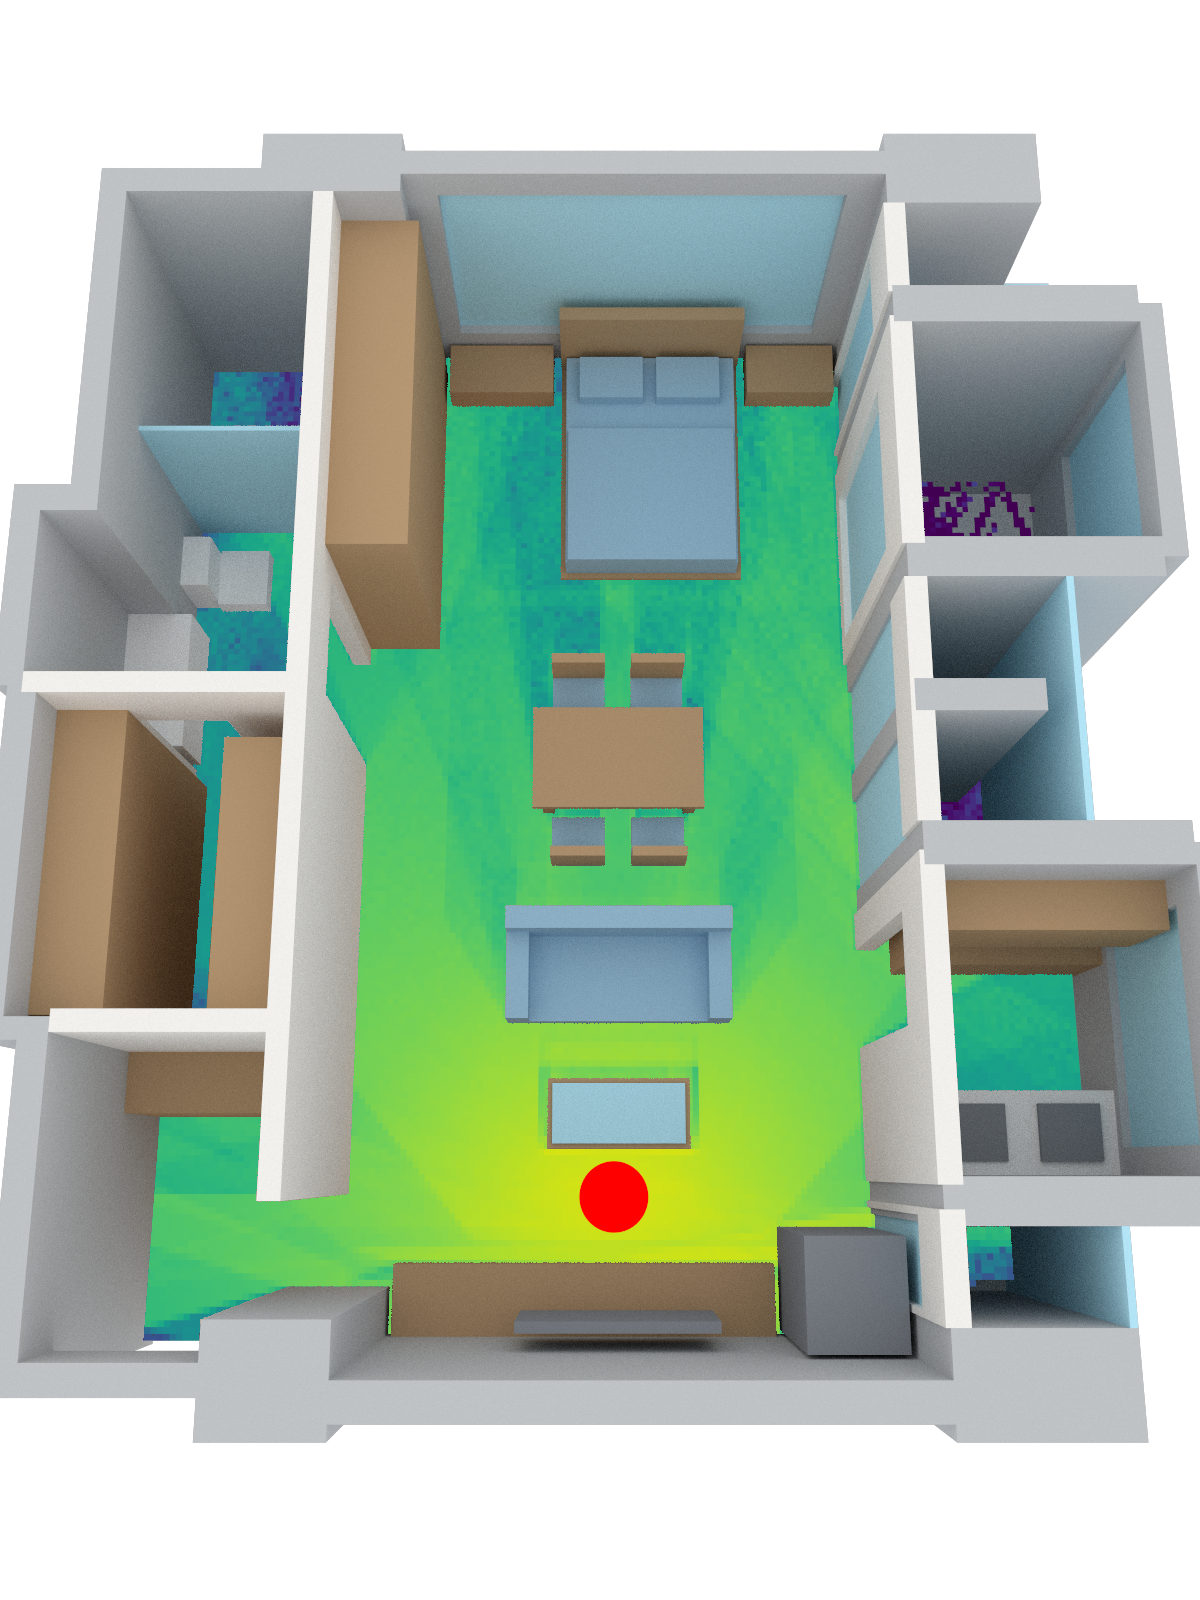
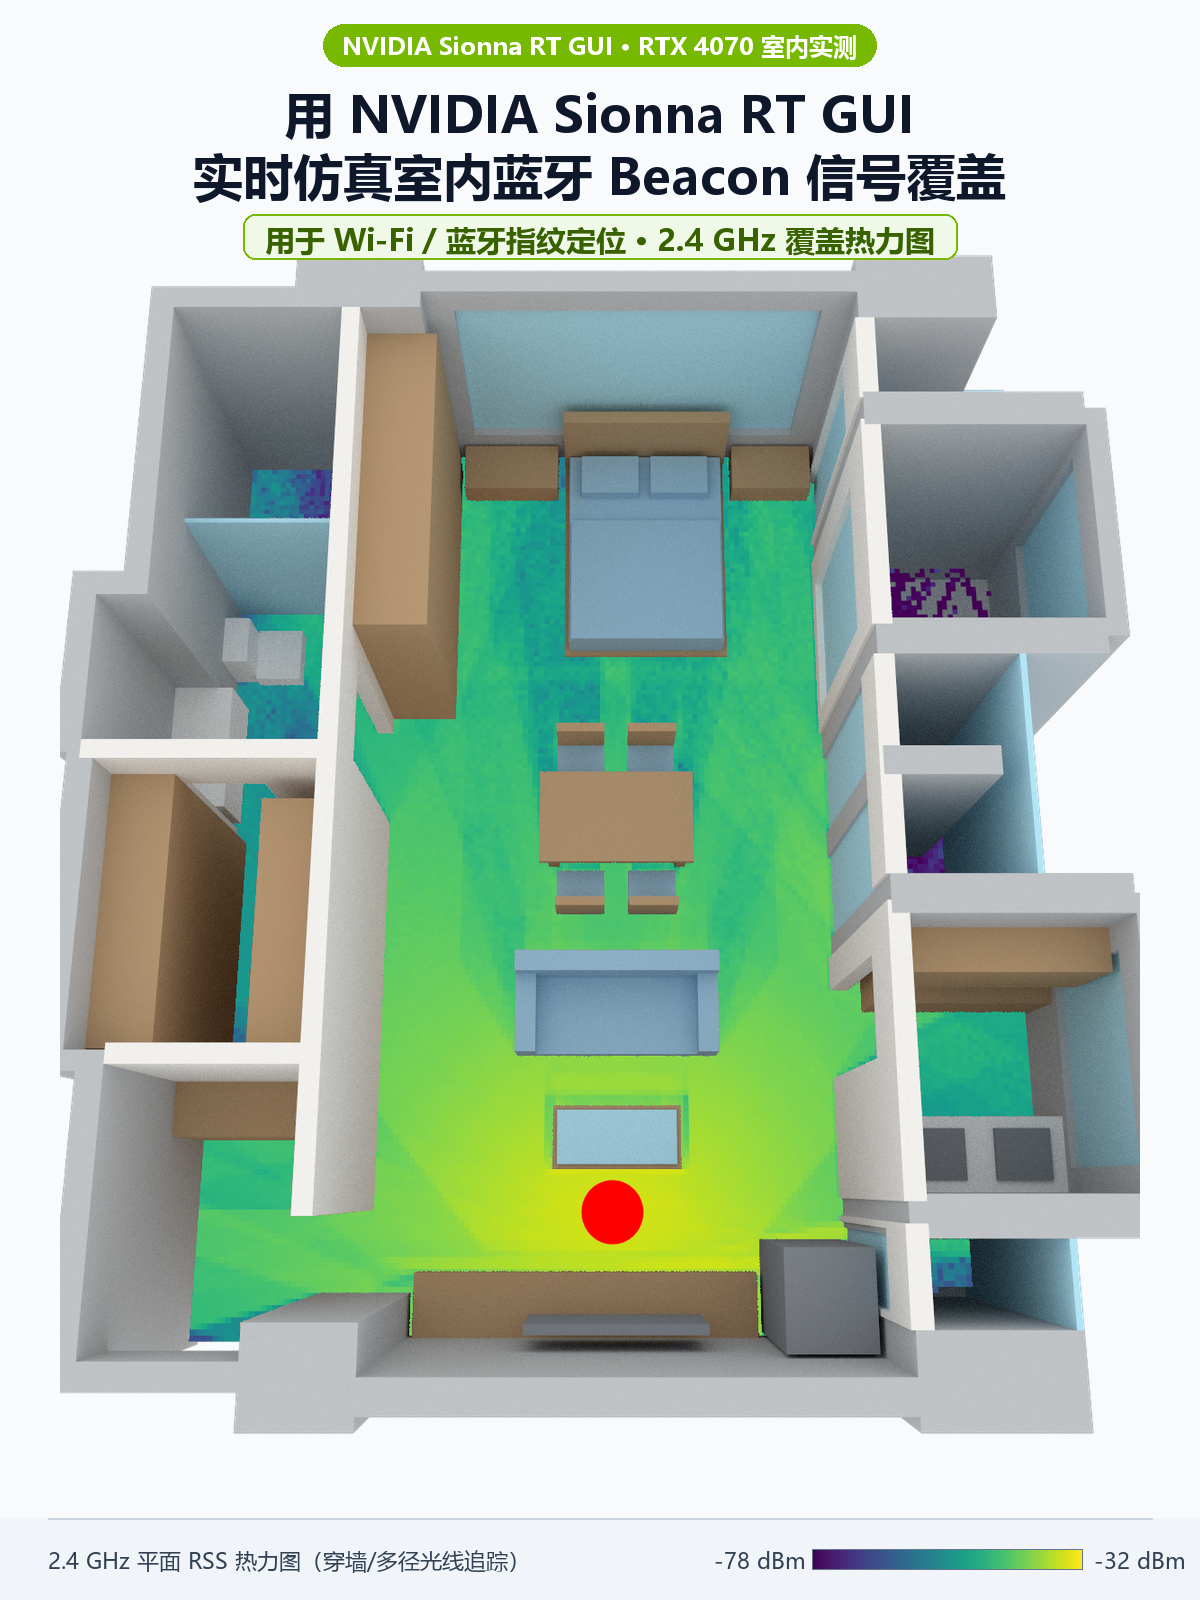
feat: add poster title overlays for Wi-Fi/BLE fingerprint localization

diff --git a/annotate_posters.py b/annotate_posters.py
@@ -1,0 +1,163 @@
+"""
+为 3:4 与 4:3 海报图添加高清标题与图例排版（支持中文微软雅黑粗体）
+"""
+
+from pathlib import Path
+import matplotlib
+import numpy as np
+from PIL import Image, ImageDraw, ImageFont
+
+
+FONT_BOLD = r"C:\Windows\Fonts\msyhbd.ttc"
+FONT_REG = r"C:\Windows\Fonts\msyh.ttc"
+NVIDIA_GREEN = (118, 185, 0)
+
+
+def draw_centered_text(draw: ImageDraw.ImageDraw, y: int, text: str, font, fill, canvas_w: int, shadow=None):
+    bbox = draw.textbbox((0, 0), text, font=font)
+    tw = bbox[2] - bbox[0]
+    x = (canvas_w - tw) // 2
+    if shadow is not None:
+        draw.text((x + 2, y + 3), text, font=font, fill=shadow)
+    draw.text((x, y), text, font=font, fill=fill)
+    return bbox[3] - bbox[1]
+
+
+def build_colorbar_strip(width: int, height: int, cmap_name: str = "viridis") -> Image.Image:
+    cmap = matplotlib.colormaps.get_cmap(cmap_name)
+    xs = np.linspace(0.0, 1.0, width)[None, :]
+    rgba = (cmap(np.repeat(xs, height, axis=0)) * 255).astype(np.uint8)
+    return Image.fromarray(rgba, mode="RGBA")
+
+
+def annotate_3_4(raw_path: Path, out_path: Path):
+    base = Image.open(raw_path).convert("RGBA")
+    w, h = base.size  # 1200 x 1600
+
+    # 将透明背景的 3D 渲染图缩放至 90% 并下移，给顶部标题与底部色标留出充裕白底空间
+    canvas = Image.new("RGBA", (w, h), (248, 250, 252, 255))
+    scaled_w, scaled_h = int(w * 0.90), int(h * 0.90)
+    base_scaled = base.resize((scaled_w, scaled_h), Image.Resampling.LANCZOS)
+    canvas.alpha_composite(base_scaled, ((w - scaled_w) // 2, 135))
+
+    draw = ImageDraw.Draw(canvas)
+    f_badge = ImageFont.truetype(FONT_BOLD, 24)
+    f_title = ImageFont.truetype(FONT_BOLD, 50)
+    f_sub = ImageFont.truetype(FONT_BOLD, 30)
+    f_foot = ImageFont.truetype(FONT_REG, 22)
+
+    # 1. 顶部标签胶囊
+    badge_text = "NVIDIA Sionna RT GUI · RTX 4070 室内实测"
+    bb = draw.textbbox((0, 0), badge_text, font=f_badge)
+    bw, bh = bb[2] - bb[0] + 38, bb[3] - bb[1] + 16
+    bx0 = (w - bw) // 2
+    draw.rounded_rectangle([bx0, 24, bx0 + bw, 24 + bh], radius=bh // 2, fill=(*NVIDIA_GREEN, 255))
+    draw_centered_text(draw, 29, badge_text, f_badge, (255, 255, 255, 255), w)
+
+    # 2. 主标题（两行居中）
+    draw_centered_text(draw, 80, "用 NVIDIA Sionna RT GUI", f_title, (15, 23, 42, 255), w)
+    draw_centered_text(draw, 142, "实时仿真室内蓝牙 Beacon 信号覆盖", f_title, (15, 23, 42, 255), w)
+
+    # 3. 副标题（Wi-Fi / 蓝牙指纹定位）
+    sub_text = "用于 Wi-Fi / 蓝牙指纹定位 · 2.4 GHz 覆盖热力图"
+    sb = draw.textbbox((0, 0), sub_text, font=f_sub)
+    sw, sh = sb[2] - sb[0] + 44, sb[3] - sb[1] + 16
+    sx0 = (w - sw) // 2
+    draw.rounded_rectangle(
+        [sx0, 214, sx0 + sw, 214 + sh],
+        radius=12,
+        fill=(240, 249, 232, 255),
+        outline=(118, 185, 0, 255),
+        width=2,
+    )
+    draw_centered_text(draw, 219, sub_text, f_sub, (56, 98, 0, 255), w)
+
+    # 4. 底部色标与图例栏
+    draw.rectangle([0, h - 82, w, h], fill=(241, 245, 249, 250))
+    draw.line([(48, h - 82), (w - 48, h - 82)], fill=(203, 213, 225, 255), width=2)
+    draw.text((48, h - 55), "2.4 GHz 平面 RSS 热力图（穿墙/多径光线追踪）", font=f_foot, fill=(51, 65, 85, 255))
+
+    bar_w, bar_h = 270, 20
+    bar_x, bar_y = w - bar_w - 118, h - 51
+    cbar = build_colorbar_strip(bar_w, bar_h, "viridis")
+    canvas.paste(cbar, (bar_x, bar_y))
+    draw.rectangle([bar_x, bar_y, bar_x + bar_w, bar_y + bar_h], outline=(100, 116, 139, 255), width=1)
+    draw.text((bar_x - 98, h - 55), "-78 dBm", font=f_foot, fill=(51, 65, 85, 255))
+    draw.text((bar_x + bar_w + 12, h - 55), "-32 dBm", font=f_foot, fill=(51, 65, 85, 255))
+
+    canvas.convert("RGB").save(out_path, quality=95)
+    print(f"[OK] 3:4 海报已更新: {out_path}")
+
+
+def annotate_4_3(raw_path: Path, out_path: Path):
+    base = Image.open(raw_path).convert("RGBA")
+    w, h = base.size  # 1600 x 1200
+
+    # 顶部暗色半透明渐变遮罩，确保白色文字高对比度且不遮挡中部信号射线
+    overlay = Image.new("RGBA", (w, h), (0, 0, 0, 0))
+    odraw = ImageDraw.Draw(overlay)
+    grad_h = 235
+    for y in range(grad_h):
+        alpha = int(228 * ((1.0 - y / grad_h) ** 1.35))
+        odraw.line([(0, y), (w, y)], fill=(12, 17, 26, alpha))
+
+    # 底部右侧微遮罩（放置图例）
+    odraw.rounded_rectangle([w - 670, h - 62, w - 24, h - 18], radius=12, fill=(12, 17, 26, 195))
+
+    canvas = Image.alpha_composite(base, overlay)
+    draw = ImageDraw.Draw(canvas)
+
+    f_badge = ImageFont.truetype(FONT_BOLD, 24)
+    f_title = ImageFont.truetype(FONT_BOLD, 48)
+    f_sub = ImageFont.truetype(FONT_BOLD, 30)
+    f_leg = ImageFont.truetype(FONT_REG, 22)
+
+    # 1. 顶部标签胶囊
+    badge_text = "2.4 GHz 多径射线追踪 · 室内穿墙仿真"
+    bb = draw.textbbox((0, 0), badge_text, font=f_badge)
+    bw, bh = bb[2] - bb[0] + 36, bb[3] - bb[1] + 14
+    bx0 = (w - bw) // 2
+    draw.rounded_rectangle([bx0, 18, bx0 + bw, 18 + bh], radius=bh // 2, fill=(*NVIDIA_GREEN, 255))
+    draw_centered_text(draw, 22, badge_text, f_badge, (255, 255, 255, 255), w)
+
+    # 2. 主标题
+    draw_centered_text(
+        draw,
+        72,
+        "用 NVIDIA Sionna RT GUI 实时仿真室内蓝牙 Beacon 信号覆盖",
+        f_title,
+        (255, 255, 255, 255),
+        w,
+        shadow=(0, 0, 0, 210),
+    )
+
+    # 3. 副标题
+    draw_centered_text(
+        draw,
+        136,
+        "用于 Wi-Fi / 蓝牙指纹定位 · 视距直达 / 镜面反射 / 穿墙透射",
+        f_sub,
+        (163, 230, 53, 255),
+        w,
+        shadow=(0, 0, 0, 210),
+    )
+
+    # 4. 右下角图例
+    lx = w - 648
+    ly = h - 49
+    draw.ellipse([lx, ly + 4, lx + 18, ly + 22], fill=(239, 68, 68, 255))
+    draw.text((lx + 26, ly), "BLE 信标 (Tx)", font=f_leg, fill=(241, 245, 249, 255))
+    draw.ellipse([lx + 195, ly + 4, lx + 213, ly + 22], fill=(134, 239, 172, 255))
+    draw.text((lx + 221, ly), "接收端 (Rx)", font=f_leg, fill=(241, 245, 249, 255))
+    draw.line([(lx + 365, ly + 13), (lx + 402, ly + 13)], fill=(226, 232, 240, 255), width=4)
+    draw.text((lx + 412, ly), "3D 多径传播 + 热力图", font=f_leg, fill=(241, 245, 249, 255))
+
+    canvas.convert("RGB").save(out_path, quality=95)
+    print(f"[OK] 4:3 海报已更新: {out_path}")
+
+
+if __name__ == "__main__":
+    out_dir = Path(__file__).parent / "output"
+    raw_dir = out_dir / "raw_posters"
+    annotate_3_4(raw_dir / "poster_3_4_radiomap.png", out_dir / "poster_3_4_radiomap.png")
+    annotate_4_3(raw_dir / "poster_4_3_propagation.png", out_dir / "poster_4_3_propagation.png")
